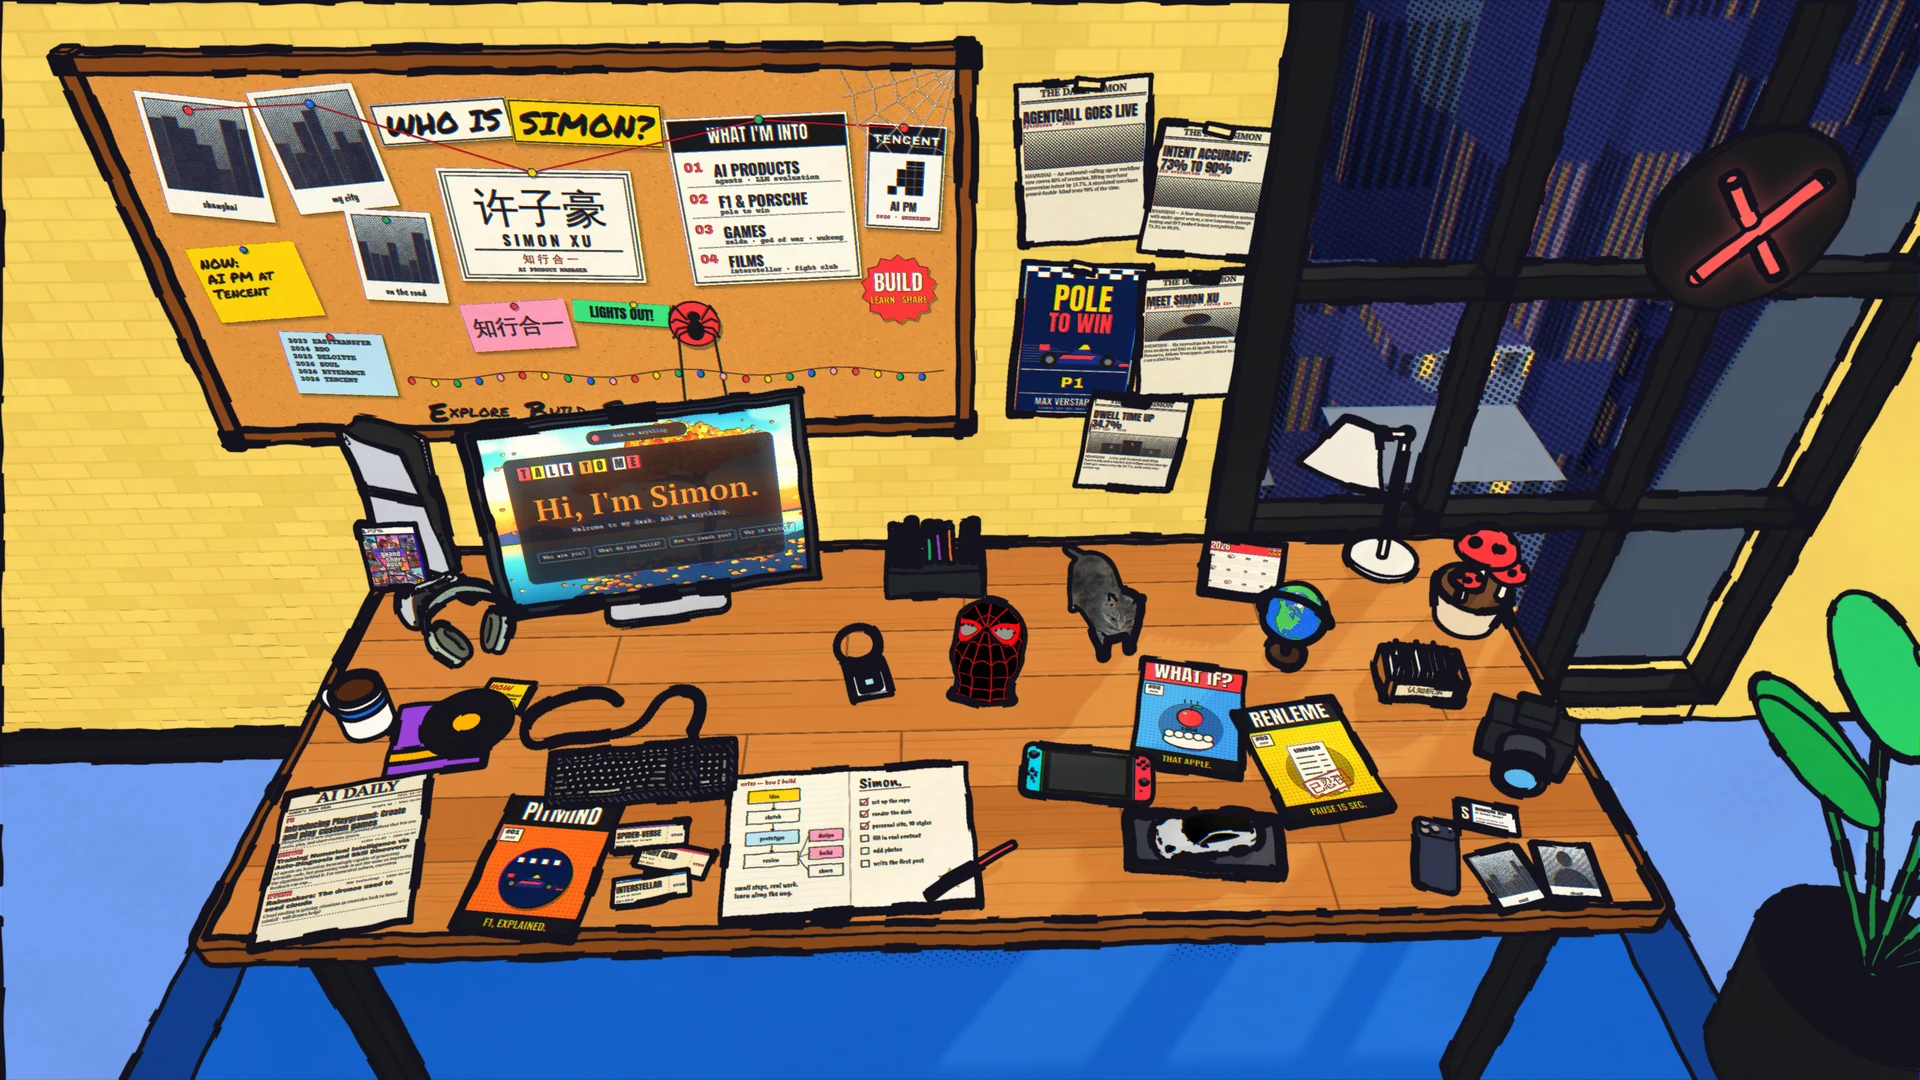
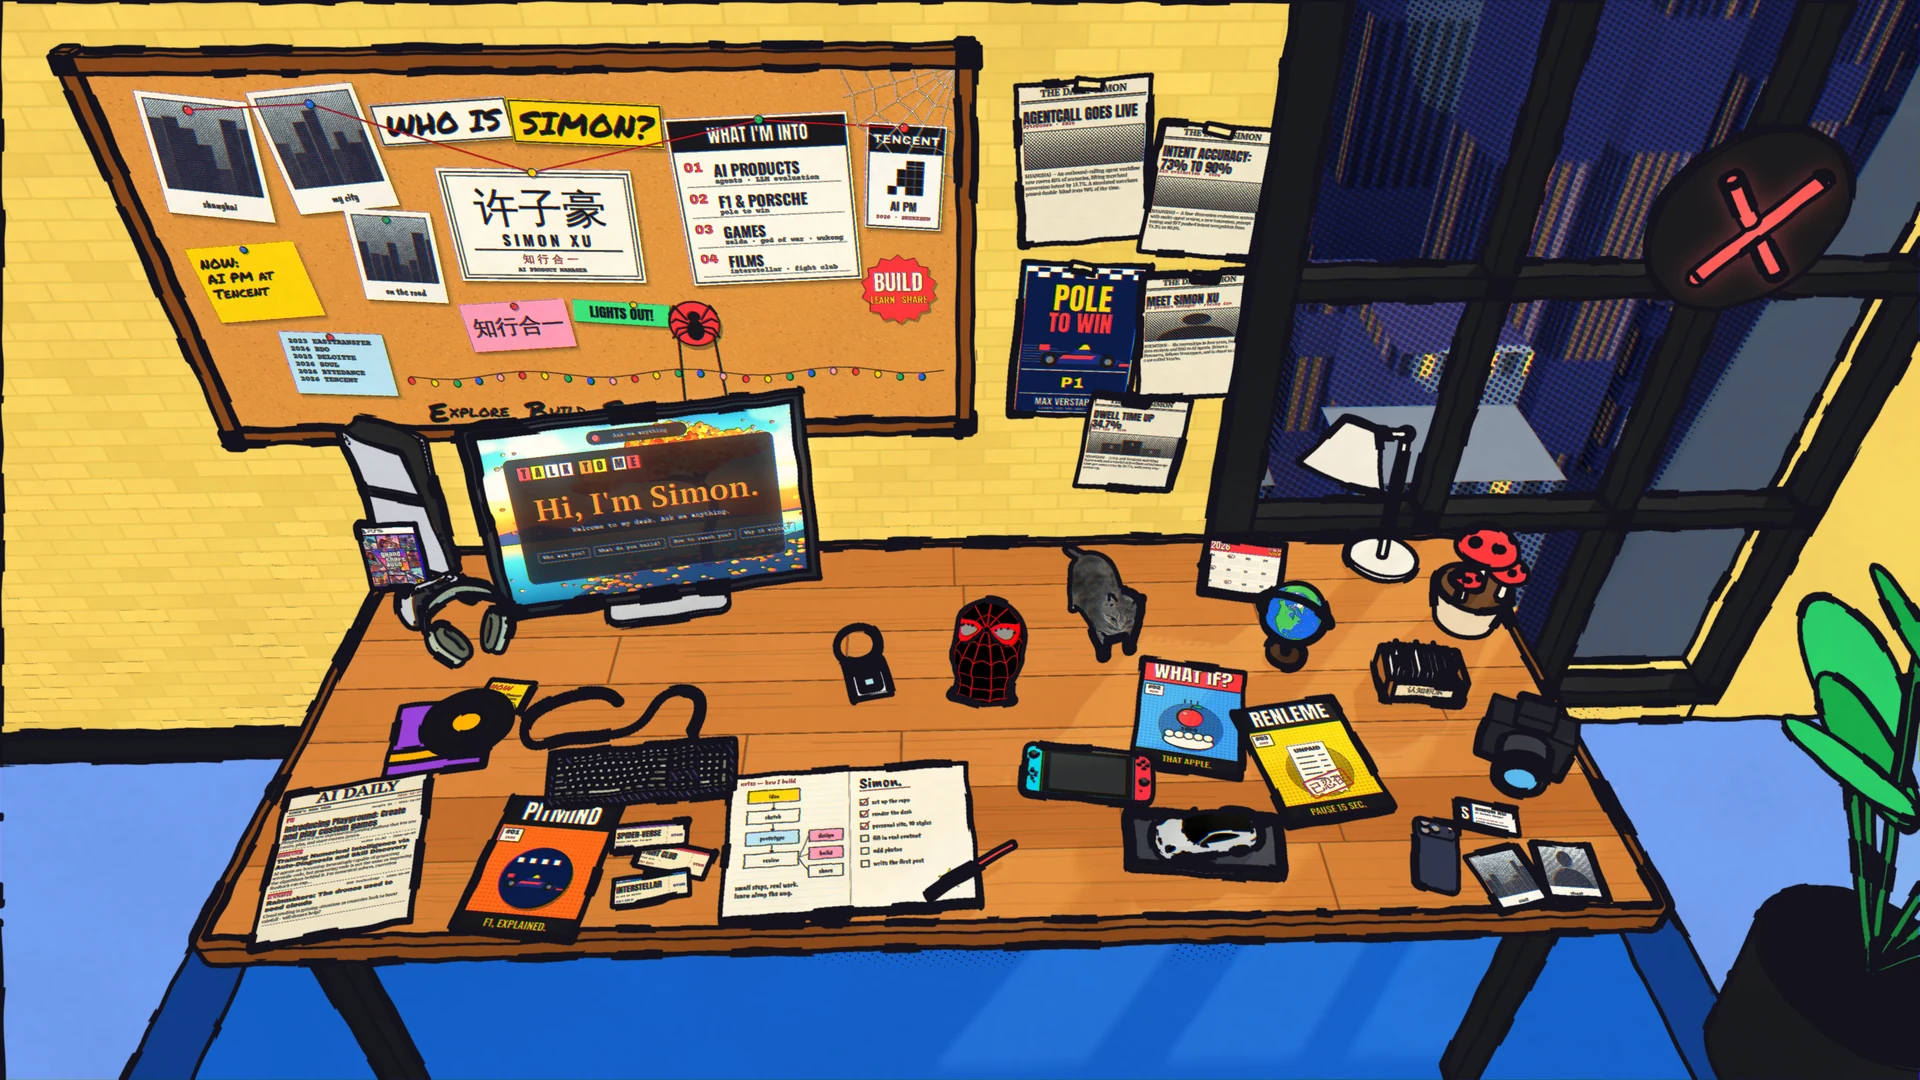
Drop the pen rack and mug, make the AirPods open the playlist (#4)
* Scaffold Next.js personal site based on EdwinjJ1/personal-website

Static-export Next.js 15 site with home, about, projects, blog and
photography pages, a zh/en language switch, light/dark themes with the
WebGL starfield backdrop, placeholder content in src/data, and a GitHub
Pages deploy workflow.

Claude-Session: https://claude.ai/code/session_019ggxabgDhCYUh62LeLnHLD

* Switch to the 3D desk site from EdwinjJ1/personal-website 002

Replace the Next.js portfolio with the Blender desk + ten-style WebGL
site. The original author's text, photos, project art, logo and resume
details are removed and replaced with placeholders; hotspots are renamed
to generic ones (zine-1..4, badge, plant, table-model) and the club mascot
is dropped. Textures now use bundled OFL fonts so they build on any OS,
web fonts are self-hosted, and the chat falls back to canned answers until
a Worker is deployed. Renders (site/assets/styles, hot.png, scene.json)
are not generated yet.

Claude-Session: https://claude.ai/code/session_019ggxabgDhCYUh62LeLnHLD

* Remove the original author's journal API address and keychain name

Claude-Session: https://claude.ai/code/session_019ggxabgDhCYUh62LeLnHLD

* Redesign desk objects for a self-showcase site

Remove the trophies, GitHub city, round-table model and echo puck. Add a
mini race track with a Porsche, a year-in-review calendar, a globe, movie
ticket stubs, an index-card box for podcasts and WeChat reads, a sleeping
[…]

Changed region(s): [[0.9062, 0.5194, 1.0, 0.8861], [0.4375, 0.4583, 0.5312, 0.5806], [0.1562, 0.6111, 0.2188, 0.7028]]

diff --git a/site/js/app.js b/site/js/app.js
@@ -1,13 +1,13 @@
 // 入口：状态、交互、面板（静态 + 从旧站导入的内容）、对话、阅读模式。画面交给 stage.js，坐标换算在 geometry.js。
 import { groupAlbums } from './albums.js';
 import { streamChat } from './chat.js';
-import { ALBUMS, APPLE_MUSIC, CHAT, DYNAMIC, HOTS, INTRO_ORDER, LABELS, NOTEBOOK, PANELS, STYLES, UI, appleEmbed, matchTopic } from './content.js?v=20261029-1';
+import { ALBUMS, APPLE_MUSIC, CHAT, DYNAMIC, HOTS, INTRO_ORDER, LABELS, NOTEBOOK, PANELS, STYLES, UI, appleEmbed, matchTopic } from './content.js?v=20261030-1';
 import * as G from './geometry.js?v=20261011-1';
 import { renderGithub, tipLabel } from './github.js';
 import { renderJournal } from './journal.js?v=20261012-2';
 import { coverUrl, createPlayer, fmtTime } from './music.js';
 import { renderNews } from './news.js';
-import { createStage, hexToRgb, styleUrl } from './stage.js?v=20261029-1';
+import { createStage, hexToRgb, styleUrl } from './stage.js?v=20261030-1';
 import { createTour } from './tour.js';
 import { CENTER as WEB_CENTER, earthOf, hostOf, webLayout } from './web.js';
 
@@ -1003,12 +1003,12 @@ async function boot() {
   applyLang();
   buildHud();
   try {
-    scene = await (await fetch('assets/scene.json?v=20261029-1')).json();
+    scene = await (await fetch('assets/scene.json?v=20261030-1')).json();
     img = { w: scene.width, h: scene.height };
     hotByIndex = Object.entries(scene.hots).reduce((arr, [name, h]) => { const next = arr.slice(); next[h.index] = name; return next; }, []);
     stage = createStage(dom.canvas, img);
     progress(0.2);
-    const hotImg = await new Promise((res, rej) => { const im = new Image(); im.onload = () => res(im); im.onerror = rej; im.src = 'assets/hot.png?v=20261029-1'; });
+    const hotImg = await new Promise((res, rej) => { const im = new Image(); im.onload = () => res(im); im.onerror = rej; im.src = 'assets/hot.png?v=20261030-1'; });
     const cv = document.createElement('canvas');
     cv.width = hotImg.width;
     cv.height = hotImg.height;

diff --git a/site/index.html b/site/index.html
@@ -7,13 +7,13 @@
   <meta name="description" content="Simon Xu 的个人网站：一张桌子，十个宇宙。">
   <meta property="og:title" content="Simon Xu · One desk, ten universes">
   <meta property="og:description" content="Click the mask to switch universe.">
-  <meta property="og:image" content="assets/styles/comic@1x.webp?v=20261029-1">
+  <meta property="og:image" content="assets/styles/comic@1x.webp?v=20261030-1">
   <meta name="theme-color" content="#14121c">
   <link rel="stylesheet" href="css/fonts.css">
-  <link rel="stylesheet" href="css/main.css?v=20261029-1">
+  <link rel="stylesheet" href="css/main.css?v=20261030-1">
   <link rel="stylesheet" href="css/news.css">
   <link rel="stylesheet" href="css/mobile.css?v=20261011-1">
-  <link rel="preload" as="image" href="assets/styles/comic@1x.webp?v=20261029-1">
+  <link rel="preload" as="image" href="assets/styles/comic@1x.webp?v=20261030-1">
 </head>
 <body>
   <div id="loader" role="status">
@@ -64,6 +64,6 @@
     </div>
   </noscript>
 
-  <script type="module" src="js/app.js?v=20261029-1"></script>
+  <script type="module" src="js/app.js?v=20261030-1"></script>
 </body>
 </html>

diff --git a/site/js/content.js b/site/js/content.js
@@ -35,6 +35,7 @@ export const HOTS = {
   photos: { panel: 'photos' },
   games: { panel: 'games' },
   music: { panel: 'music' },
+  headphones: { panel: 'music' },
   contact: { panel: 'contact' },
   camera: { panel: 'photos' },
   cars: { panel: 'cars' },
@@ -63,6 +64,7 @@ export const LABELS = {
   photos: { zh: '摄影', en: 'Photography' },
   games: { zh: '我喜欢的游戏', en: 'Games I love' },
   music: { zh: '放张唱片', en: 'Play a record' },
+  headphones: { zh: '戴上耳机', en: 'Put the headphones on' },
   contact: { zh: '联系我', en: 'Contact' },
   camera: { zh: '摄影', en: 'Photography' },
   cars: { zh: '保时捷和赛车', en: 'Porsche & racing' },

diff --git a/site/js/stage.js b/site/js/stage.js
@@ -79,7 +79,7 @@ function loadImage(src) {
 }
 
 /** 一个风格的贴图地址；hi=true 是全尺寸。手机上的小地图也用它，跟舞台走同一份缓存。 */
-export const styleUrl = (id, hi = false, base = 'assets/') => `${base}styles/${id}${hi ? '' : '@1x'}.webp?v=20261029-1`;
+export const styleUrl = (id, hi = false, base = 'assets/') => `${base}styles/${id}${hi ? '' : '@1x'}.webp?v=20261030-1`;
 
 export function hexToRgb(hex) {
   const h = hex.replace('#', '');

diff --git a/blender/layout.py b/blender/layout.py
@@ -4,7 +4,7 @@
 每个可点的东西带 hot 名字，前端按它开面板：
   board / press / monitor / keyboard / mask（切换宇宙）/ zine-1 / zine-2 / zine-3（三个项目）
   notebook（博客）/ phone / plant（兴趣）/ camera + photos（摄影）/ badge（工作）/ news（报纸）/ games（PS5、Switch）
-  music（唱片）/ contact（名片）/ fries / cars（显示器前的赛道和保时捷）/ calendar（年度回顾）/ globe（去过的地方）
+  music（唱片）/ headphones（耳机，也是歌单）/ contact（名片）/ fries / cars（显示器前的赛道和保时捷）/ calendar（年度回顾）/ globe（去过的地方）
   movies（电影票根）/ cards（卡片盒：认知积累）/ cat（美短）/ now（NOW 便签）
 """
 import json
@@ -184,14 +184,8 @@ def build_track():
 def build_left():
     # PS5 Slim + GTA VI + DualSense（Roberto Domínguez，CC BY 4.0）：立在桌子左后角，点开是游戏
     glb("ps5", "models/ps5.glb", 0.33, (-1.14, 0.40, T), rot=(0, 0, R(18)), hot="games")
-    # AirPods Max（Mr.Philin，CC BY 4.0）：立在显示器左前方
-    glb("airpods", "models/airpods_max.glb", 0.17, (-0.96, 0.17, T), rot=(0, 0, R(24)))
-    # 马克杯
-    mx, my = -1.12, -0.02
-    cyl("mug", 0.047, 0.095, (mx, my, T + 0.0475), M("mug", "#ffffff", 0.4))
-    cyl("mug_band", 0.0475, 0.02, (mx, my, T + 0.07), M("mug_band", "#2b6be4", 0.4))
-    cyl("mug_coffee", 0.040, 0.004, (mx, my, T + 0.094), M("coffee", "#4a2c1a", 0.3))
-    torus("mug_handle", 0.03, 0.009, (mx - 0.05, my + 0.01, T + 0.05), M("mug", "#ffffff"), rot=(math.pi / 2, 0, R(160)), seg=20, sub=8)
+    # AirPods Max（Mr.Philin，CC BY 4.0）：立在显示器左前方，点开和唱片一样是歌单
+    glb("airpods", "models/airpods_max.glb", 0.17, (-0.96, 0.17, T), rot=(0, 0, R(24)), hot="headphones")
     # 唱片：从封套里抽出来一半，点开是黑胶播放器
     sx, sy, vx, vy = -0.968, -0.06, -0.923, -0.03
     box("vinyl_sleeve", (0.18, 0.18, 0.004), (sx, sy, T + 0.004), M("vinyl_sleeve", "#8e4ec6", 0.7), rot=(0, 0, R(8)), hot="music")
@@ -217,13 +211,6 @@ def build_left():
 
 
 def build_center():
-    # 笔架
-    px, py = 0.00, 0.36
-    box("pen_rack", (0.21, 0.07, 0.07), (px, py, T + 0.035), M("pen_rack", "#22242a", 0.5))
-    for i, col in enumerate(("#e5484d", "#2b6be4", "#f5b301", "#30a46c", "#8e4ec6", "#ff7a3d", "#17181c", "#3de0ff")):
-        x = px - 0.084 + i * 0.024
-        tip = (x + rng.uniform(-0.012, 0.012), py + rng.uniform(0.0, 0.03), T + 0.17 + rng.uniform(-0.01, 0.02))
-        rod(f"pen{i}", (x, py, T + 0.04), tip, 0.008, M(f"pen{i}", col, 0.4), seg=10)
     # 小布：美短（Zhuier 的猫模型，CC BY 4.0），贴图去掉棕色调成银虎斑；脸朝镜头偏右
     glb("cat", "models/cat.glb", 0.33, (0.34, 0.25, T), rot=(0, 0, R(16)), hot="cat", sat=0.12, val=1.25)
     # 迈尔斯的面具（spider boy，CC BY 4.0）：点它切换宇宙（致敬参考站）；仰面放倒，脸稍微朝镜头

diff --git a/pipeline/stylize.py b/pipeline/stylize.py
@@ -382,7 +382,7 @@ def void(C):
     stip = blur(dilate(stip, 0.6 * C.s), 0.5 * C.s)                             # 暗部点画
     out = mix(out, hexc("#111114")[None, None], np.clip(stip * 1.4, 0, 1) * ~C.wall * 0.9)
     out = np.where(blot[..., None], hexc("#111114"), out)
-    acc = (luma(C.E) > 0.25) | C.mask("zine_echo", "echo_ring", "mug_band", "cam_ring", "shroom_cap")
+    acc = (luma(C.E) > 0.25) | C.mask("zine_echo", "echo_ring", "cam_ring", "shroom_cap")
     out = np.where(acc[..., None], hexc("#ff5a1f"), out)                        # 只留一个橙色
     dash = ((C.xx + C.yy) % (9 * C.s) < 4.5 * C.s)                              # 远处楼群画成虚线
     ln = C.lines(1.5, 0.8, 0.5, wobble=0.5, city=0.0)
